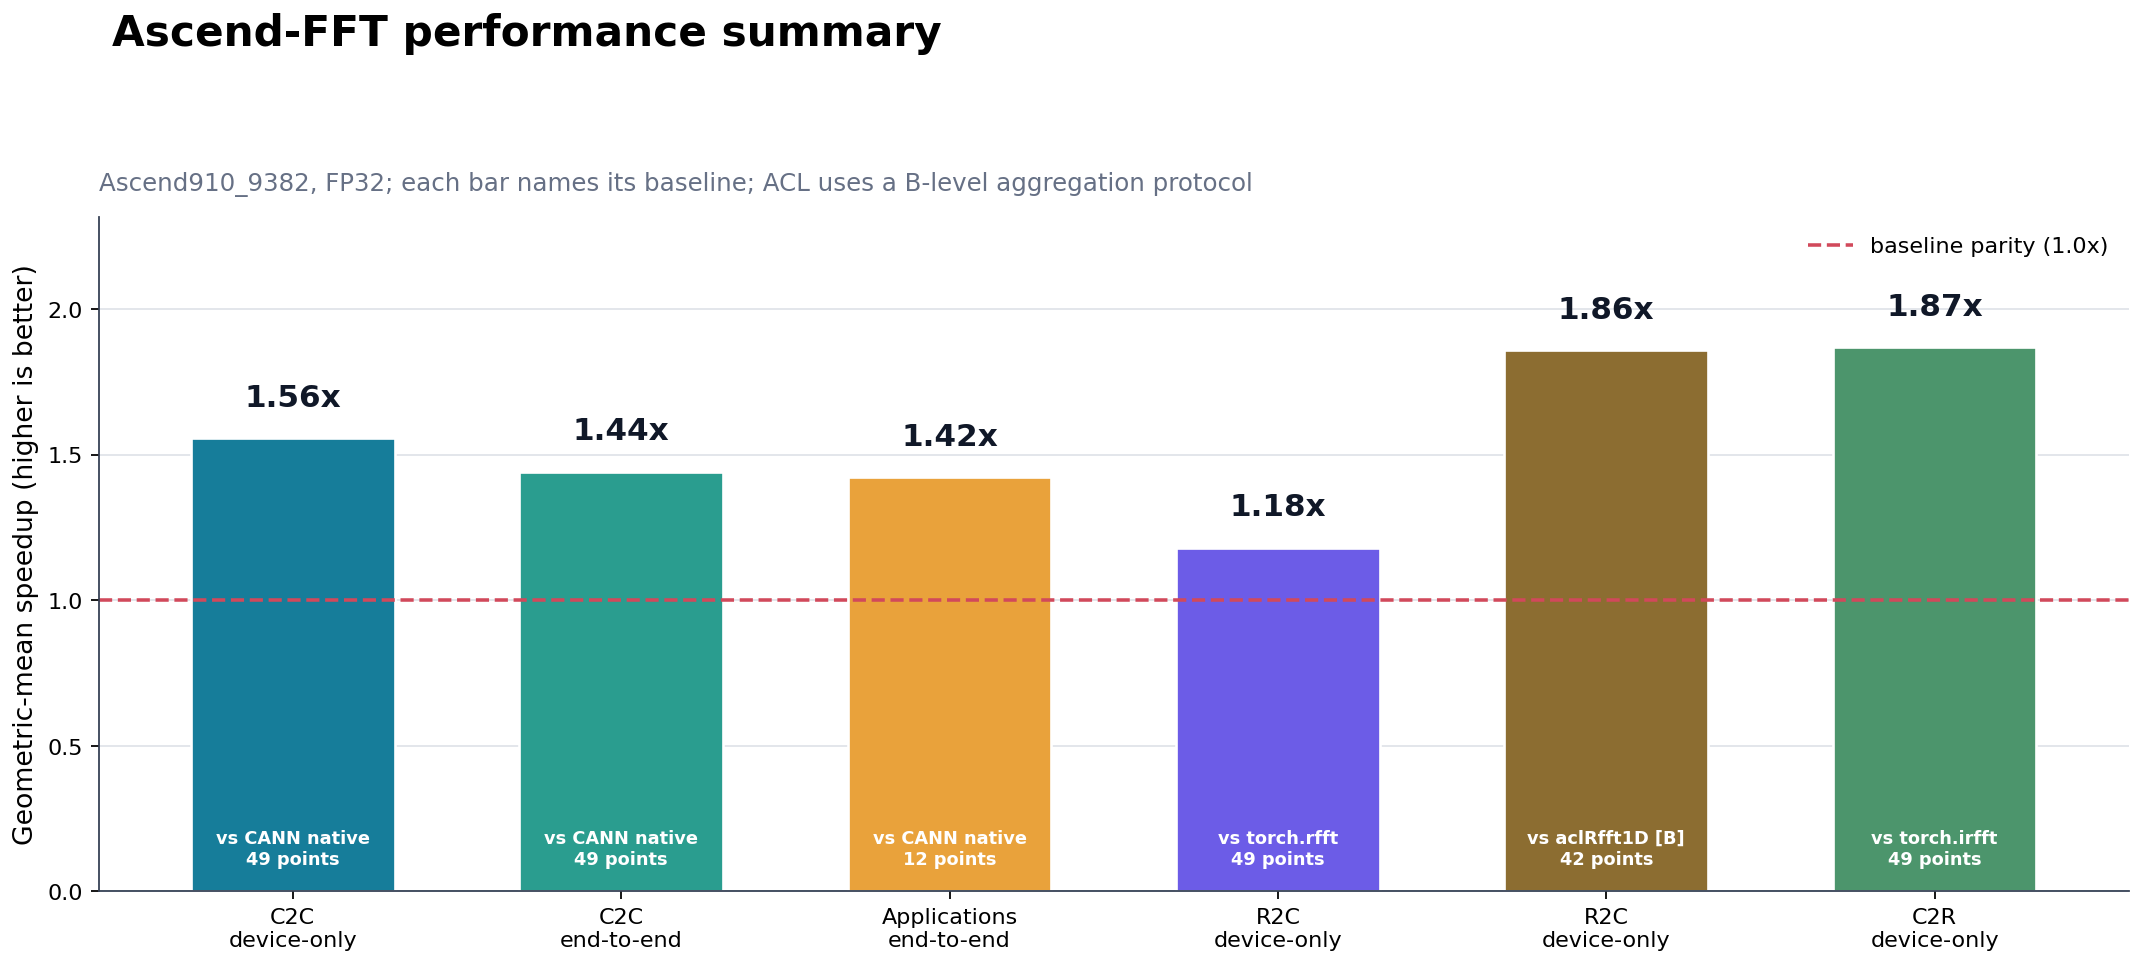
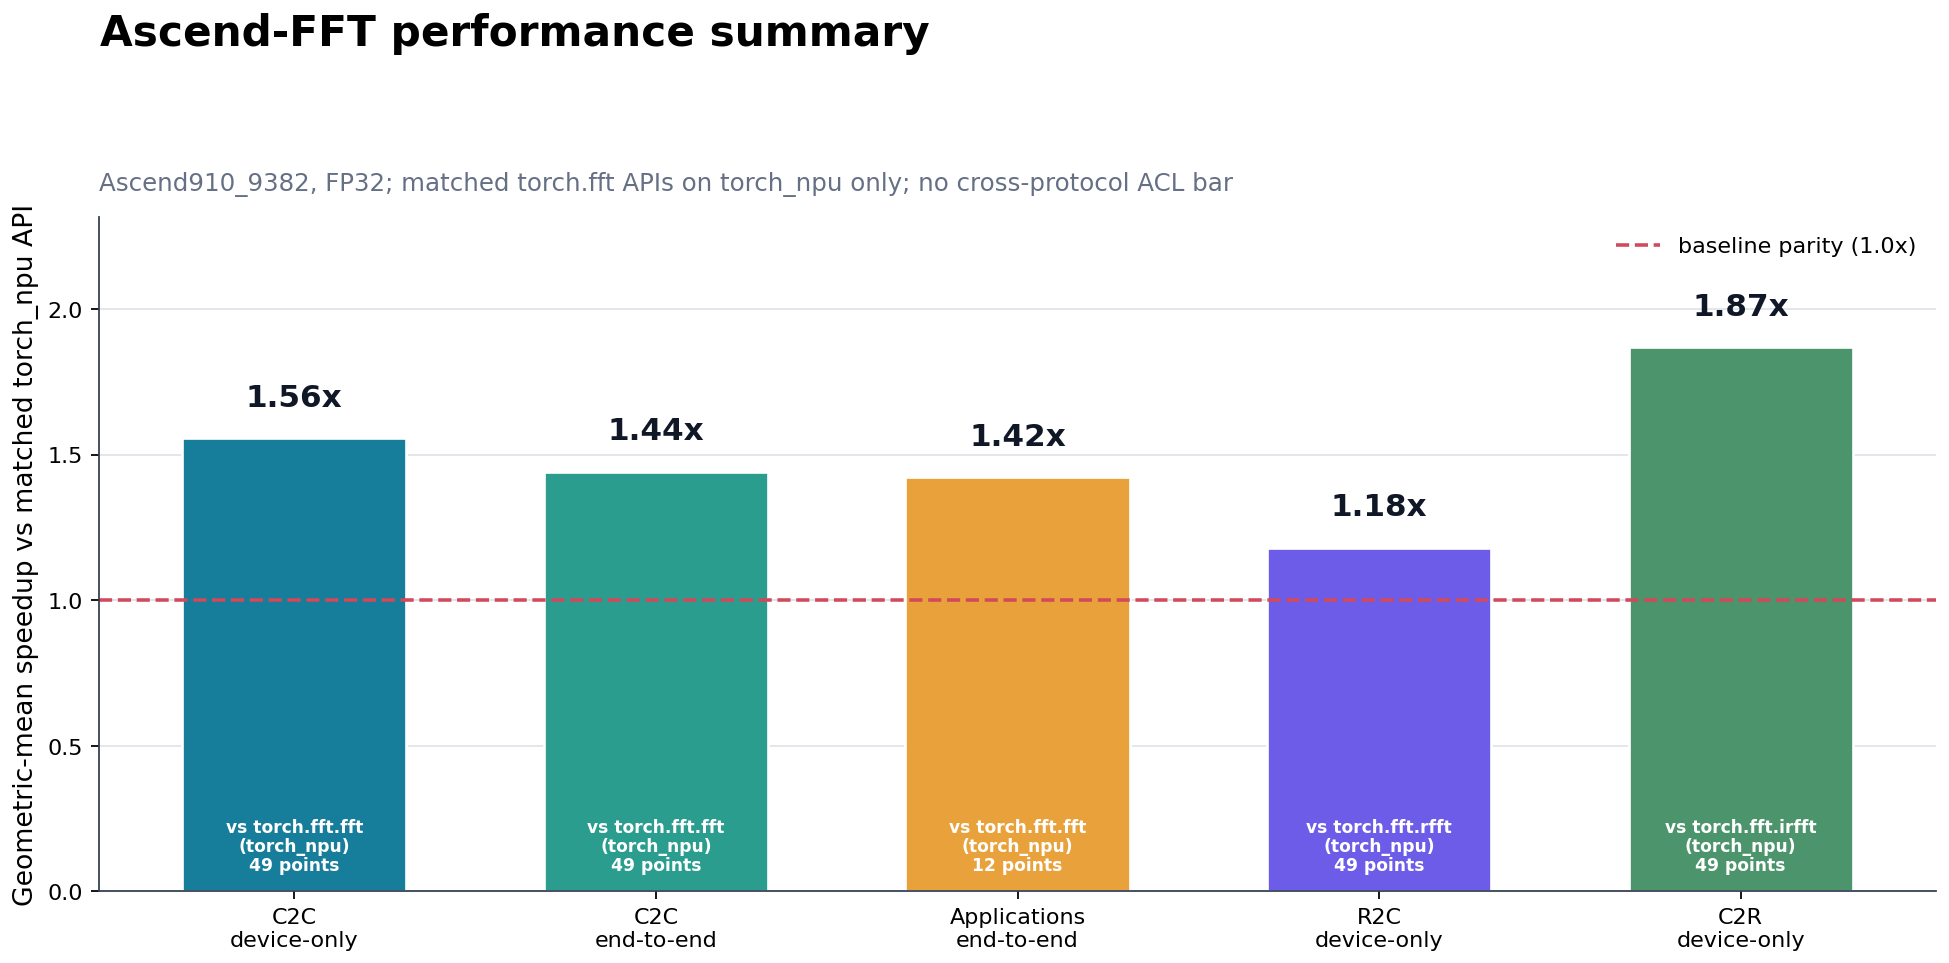
docs: unify headline FFT baseline labels

diff --git a/scripts/plot_results.py b/scripts/plot_results.py
@@ -129,25 +129,38 @@ def geo(values):
     return float(np.exp(np.mean(np.log(values)))) if values.size else float("nan")
 
 
-def fig_overview(rows, e2rows, approws, realrows, out):
-    """README headline: comparable groups, each with its baseline in the label."""
+def overview_groups(rows, e2rows, approws, realrows):
+    """Return headline groups with one explicit torch_npu baseline family.
+
+    The bare ACL R2C measurement intentionally stays out of this list: it was
+    collected with a different aggregation protocol and is reported as a
+    secondary comparison in the real-transform results page.
+    """
     r2c_torch = [r.get("r2c_vs_torch") for r in realrows]
-    r2c_acl = [r.get("r2c_vs_acl") for r in realrows]
     c2r_torch = [r.get("c2r_vs_torch") for r in realrows]
     groups = [
-        ("C2C\ndevice-only", geo([r["ratio"] for r in rows]), "CANN native", len(rows)),
-        ("C2C\nend-to-end", geo([r["e2e_ratio"] for r in e2rows]), "CANN native", len(e2rows)),
-        ("Applications\nend-to-end", geo([r["e2e_ratio"] for r in approws]), "CANN native", len(approws)),
-        ("R2C\ndevice-only", geo(r2c_torch), "torch.rfft", sum(v is not None for v in r2c_torch)),
-        ("R2C\ndevice-only", geo(r2c_acl), "aclRfft1D [B]", sum(v is not None for v in r2c_acl)),
-        ("C2R\ndevice-only", geo(c2r_torch), "torch.irfft", sum(v is not None for v in c2r_torch)),
+        ("C2C\ndevice-only", geo([r["ratio"] for r in rows]),
+         "torch.fft.fft\n(torch_npu)", len(rows)),
+        ("C2C\nend-to-end", geo([r["e2e_ratio"] for r in e2rows]),
+         "torch.fft.fft\n(torch_npu)", len(e2rows)),
+        ("Applications\nend-to-end", geo([r["e2e_ratio"] for r in approws]),
+         "torch.fft.fft\n(torch_npu)", len(approws)),
+        ("R2C\ndevice-only", geo(r2c_torch),
+         "torch.fft.rfft\n(torch_npu)", sum(v is not None for v in r2c_torch)),
+        ("C2R\ndevice-only", geo(c2r_torch),
+         "torch.fft.irfft\n(torch_npu)", sum(v is not None for v in c2r_torch)),
     ]
-    groups = [g for g in groups if g[1] == g[1]]
-    fig, ax = plt.subplots(figsize=(13.6, 6.2))
+    return [group for group in groups if group[1] == group[1]]
+
+
+def fig_overview(rows, e2rows, approws, realrows, out):
+    """README headline using only matched torch_npu FFT API baselines."""
+    groups = overview_groups(rows, e2rows, approws, realrows)
+    fig, ax = plt.subplots(figsize=(12.4, 6.2))
     x = np.arange(len(groups))
     values = [g[1] for g in groups]
     colors = [COLORS["ours"], COLORS["e2e"], COLORS["application"],
-              "#6C5CE7", "#8C6D31", "#4C956C"][:len(groups)]
+              "#6C5CE7", "#4C956C"][:len(groups)]
     bars = ax.bar(x, values, width=.62, color=colors, edgecolor="white", linewidth=1.2)
     ax.axhline(1.0, color=COLORS["native"], linestyle="--", linewidth=1.6,
                label="baseline parity (1.0x)")
@@ -155,16 +168,16 @@ def fig_overview(rows, e2rows, approws, realrows, out):
         ax.text(bar.get_x() + bar.get_width() / 2, value + .09,
                 f"{value:.2f}x", ha="center", va="bottom", fontsize=14,
                 fontweight="bold", color="#101828")
-        ax.text(bar.get_x() + bar.get_width() / 2, .08,
+        ax.text(bar.get_x() + bar.get_width() / 2, .06,
                 f"vs {baseline}\n{points} points", ha="center", va="bottom",
-                fontsize=8, color="white", fontweight="bold")
+                fontsize=7.7, color="white", fontweight="bold", linespacing=1.05)
     ax.set_xticks(x, [g[0] for g in groups])
-    ax.set_ylabel("Geometric-mean speedup (higher is better)")
+    ax.set_ylabel("Geometric-mean speedup vs matched torch_npu API")
     ax.set_ylim(0, max(values) * 1.24)
     fig.suptitle("Ascend-FFT performance summary", x=.06, y=.98, ha="left",
                  fontsize=19, fontweight="bold")
     ax.set_title(
-        "Ascend910_9382, FP32; each bar names its baseline; ACL uses a B-level aggregation protocol",
+        "Ascend910_9382, FP32; matched torch.fft APIs on torch_npu only; no cross-protocol ACL bar",
         loc="left", fontsize=11, color=COLORS["neutral"], pad=12)
     ax.grid(axis="y", color=COLORS["grid"], linewidth=.8, alpha=.65)
     ax.set_axisbelow(True)

diff --git a/tests/test_plot_results.py b/tests/test_plot_results.py
@@ -72,12 +72,19 @@ class PlotResultsTests(unittest.TestCase):
             self.assertTrue(image.is_file())
             self.assertGreater(image.stat().st_size, 10_000)
 
-    def test_overview_includes_real_transform_baselines(self):
+    def test_overview_uses_only_matched_torch_npu_baselines(self):
         rows = [{"ratio": 1.5}]
         e2e = [{"e2e_ratio": 1.4}]
         apps = [{"e2e_ratio": 1.3}]
         real = [{"r2c_vs_torch": 1.2, "r2c_vs_acl": 1.8,
                  "c2r_vs_torch": 1.9}]
+        groups = plots.overview_groups(rows, e2e, apps, real)
+        self.assertEqual(len(groups), 5)
+        baselines = [group[2] for group in groups]
+        self.assertEqual(baselines.count("torch.fft.fft\n(torch_npu)"), 3)
+        self.assertIn("torch.fft.rfft\n(torch_npu)", baselines)
+        self.assertIn("torch.fft.irfft\n(torch_npu)", baselines)
+        self.assertFalse(any("acl" in baseline.lower() for baseline in baselines))
         with tempfile.TemporaryDirectory() as temporary:
             plots.fig_overview(rows, e2e, apps, real, temporary)
             image = Path(temporary) / "overview_performance.png"

diff --git a/scripts/bench_native_npu.py b/scripts/bench_native_npu.py
@@ -1,11 +1,11 @@
 #!/usr/bin/env python3
-"""华为 NPU 原生复数 FFT 基准：torch.fft.fft（NPU 后端）。
+"""torch_npu 复数 FFT 基准：torch.fft.fft（NPU 后端）。
 
 实现归属：`_fft_c2c` 由 **torch_npu 自带的 op-plugin** 提供
 （`FFTc2cKernelNpuOpApi.cpp` / `FFTPlanNpuOpApi.cpp`），带 fft plan cache，
 **不是** CANN 算子库条目 —— CANN 9.0.0 的公开头文件里没有复数->复数 FFT 的 C API
-（只有 `aclRfft1D` 实->复、`aclSTFT`）。因此本文档/图里沿用的「CANN 原生」一词
-指「本卡原生复数 FFT 路径」；裸 CANN C API 一路见 `baseline_rfft --e2e`。
+（只有 `aclRfft1D` 实->复、`aclSTFT`）。历史数据字段中的 `native` 指这条本卡
+torch_npu 路径；裸 CANN C API 一路见 `baseline_rfft --e2e`。
 
   python3 scripts/bench_native_npu.py --ns 256,1024,4096 --bs 1,64,4096 --reps 20
   python3 scripts/bench_native_npu.py --input ofdm --ns 2048 --bs 14,140 --e2e

diff --git a/README.md b/README.md
@@ -70,25 +70,26 @@ cuButterfly/Ascend-FFT 的主要研究对象是计算流：我们不把某一个
 
 | 工作负载 | 比较基线 | 可比性 | 点数 | 几何均值 speedup |
 |---|---|---:|---:|---:|
-| C2C device-only | CANN 原生复数 FFT（torch_npu） | A | 49 | **1.56x** |
-| C2C end-to-end | 同上，pinned H2D + FFT + D2H | A* | 49 | **1.44x** |
-| 应用 shape end-to-end | 同上，OFDM / 雷达 / DL 频域层 | A* | 12 | **1.42x** |
+| C2C device-only | `torch.fft.fft`（torch_npu） | A | 49 | **1.56x** |
+| C2C end-to-end | `torch.fft.fft`（torch_npu），pinned H2D + FFT + D2H | A* | 49 | **1.44x** |
+| 应用 shape end-to-end | `torch.fft.fft`（torch_npu），OFDM / 雷达 / DL 频域层 | A* | 12 | **1.42x** |
 | R2C device-only | `torch.fft.rfft`（torch_npu，同卡同语义） | A | 49 | **1.18x** |
-| R2C device-only | `aclRfft1D`（同卡同语义、异统计协议） | B | 42 | **1.86x** |
 | C2R device-only | `torch.fft.irfft`（torch_npu，同卡同语义） | A | 49 | **1.87x** |
 
 <!-- END GENERATED: benchmark-summary -->
 
 数据来自 Ascend910_9382、CANN 9.0.0、fp32 发布快照
 [`ascend910_9382-migration-20261013`](results/published/ascend910_9382-migration-20261013/)。
-`A*` 表示语义和计时区间一致，但当前归档的两侧内层重复数不同；ACL 行是单独报告的 B 级
-次级对照，不与 A 级结果合并。当前快照包含 49 个 C2C 网格点，全部通过正确性门禁；device-only 有 47 个点严格领先、
+主图只汇总 `torch.fft.*` 经 torch_npu 执行的匹配基线；C2C 过去称作“CANN 原生”的路径实际也是
+`torch.fft.fft` 的 torch_npu op-plugin，并不是裸 CANN C API。裸 `aclRfft1D` 的 42 点 R2C
+B 级次级对照为 1.858x，由于统计协议不同，只在[实数变换实验](docs/benchmarks/real-transforms.md)中单列。
+`A*` 表示语义和计时区间一致，但当前归档的两侧内层重复数不同。当前快照包含 49 个 C2C 网格点，全部通过正确性门禁；device-only 有 47 个点严格领先、
 2 个点回退，最低点为 `N=1024,batch=4096`（0.942x）；按 ±5% 工程持平区间统计为 46/2/1。
 C2C E2E 为 1.442x，应用 shape 为 1.422x 且 12/12 点严格领先。R2C/C2R 使用 3-trial 对称计时协议；
 相对 torch_npu 的几何均值分别为 1.180x 和 1.868x，负点完整保留在热图和 raw 数据中。
 因此，本版本证明的是声明实验范围内的稳定总体收益，而不是每个点、每种变换或所有硬件上的
 全局最优。`N=8192..65536` 的规模切片目前只有正确性和延迟证据，不参与上述加速比汇总。
-每根柱子都标注自己的同语义基线，跨 GPU 数据不参与几何均值。查看[实验结果](docs/benchmarks/results.md)、
+每根柱子都标注对应的 torch_npu FFT API，跨 GPU 数据和异协议 ACL 数据不参与主图。查看[实验结果](docs/benchmarks/results.md)、
 [测量协议](docs/benchmarks/methodology.md)和[原始数据与复现](docs/benchmarks/reproducibility.md)。
 
 ## 为什么这样设计

diff --git a/docs/benchmarks/methodology.md b/docs/benchmarks/methodology.md
@@ -50,10 +50,11 @@
 分两套协议，逐点记录进各自 raw 行，不混算：
 
 - **C2C device-only 矩阵**：每个点先 warmup，再进行 3 轮、每轮 20 次；每轮取均值，最终采用
-  min-of-means。native/self runner 使用记录在 summary 中的固定 seed 逐轮随机交错，避免
+  min-of-means。历史 raw runner ID `native/self` 中，`native` 明确表示
+  `torch.fft.fft`/torch_npu 基线；二者使用记录在 summary 中的固定 seed 逐轮随机交错，避免
   始终先跑完某一实现造成单向温度、频率或负载漂移。
 - **端到端与应用 shape（`20261013` 快照）**：两侧同样按 3 轮 min-of-means 汇总，但内层重复数
-  不相同：native 为每轮 20 次，自研为每轮 10 次，网格实验中的裸 ACL 为每轮 10 次（应用 shape
+  不相同：torch_npu 基线为每轮 20 次，自研为每轮 10 次，网格实验中的裸 ACL 为每轮 10 次（应用 shape
   不运行 ACL）；执行顺序为先完成全部 native 轮次，再执行裸 ACL 和自研，未随机交错。该历史协议和执行顺序必须随结果披露，不能
   写成与 C2C matrix 完全相同；未来重采集应统一重复数并交错执行。
 

diff --git a/docs/index.md b/docs/index.md
@@ -24,12 +24,13 @@ Ascend-FFT 是 [cuButterfly](https://github.com/TruNcat3/cuButterfly) 在 Ascend
 <figure class="doc-diagram doc-diagram--compact">
   <a href="figures/overview_performance.png">
     <img src="figures/overview_performance.png" loading="lazy"
-         alt="Ascend-FFT 在 Ascend910_9382 上的 C2C、应用 shape、R2C 和 C2R 几何均值 speedup；每根柱子标注各自的同卡同语义基线">
+         alt="Ascend-FFT 在 Ascend910_9382 上相对匹配 torch_npu FFT API 的 C2C、应用 shape、R2C 和 C2R 几何均值 speedup">
   </a>
   <figcaption>
     当前加固发布快照的性能摘要；完整点数、协议、胜平负和限制见
-    <a href="benchmarks/results/">实验结果</a>。每根柱子使用各自标注的对照；其中 ACL 是异统计
-    协议的 B 级次级对照。这张图不代表跨硬件或未验证长度的保证。
+    <a href="benchmarks/results/">实验结果</a>。五根柱子分别使用匹配的
+    <code>torch.fft.fft/rfft/irfft</code>（torch_npu）对照；异统计协议的裸 ACL 数据不进入
+    主图。这张图不代表跨硬件或未验证长度的保证。
   </figcaption>
 </figure>
 

diff --git a/docs/reference/glossary.md b/docs/reference/glossary.md
@@ -17,7 +17,7 @@
 | Candidate / Plan | 配置描述 / 装载可执行资源的计划 |
 | Infeasible | 已检查约束失败，保留原因 |
 | Unverified / Feasible / Measured | 未验证 / 满足相应验证 / 已回填实测 |
-| 原生C2C | torch.fft.fft经torch_npu执行，不是公开CANN C2C C API |
+| 历史字段 `native` | `torch.fft.fft` 经 torch_npu 执行，不是公开 CANN C2C C API；现行图表直接写具体 API，避免称谓混淆 |
 | aclRfft1D | CANN实数到复数接口，不能无条件当作C2C基线 |
 | v1 | 本仓标量旋转因子历史kernel，不是外部库 |
 | device-only | 准备后的稳态变换/API 调用到同步，不含显式 H2D/D2H；可能含 dispatch 或必要 executor 构造，须查看具体协议 |

diff --git a/docs/benchmarks/c2c.md b/docs/benchmarks/c2c.md
@@ -13,7 +13,7 @@
 | 语义 | fp32，前向 1D C2C，稠密交错输入，自然序输出 |
 | 长度 N | 64、128、256、512、1024、2048、4096 |
 | Batch | 1、4、16、64、256、1024、4096 |
-| 严格基线 | 同卡 `torch.fft.fft` 的 torch_npu / CANN 原生复数 FFT 路径 |
+| 严格基线 | 同卡 `torch.fft.fft` 的 torch_npu op-plugin 路径；不是裸 CANN C API |
 | 计时 | Device-only 同步执行；不含 Plan 构造、输入生成和 H2D/D2H |
 | 重复与汇总 | 每点双方各 3 轮，每轮 20 次；取每轮均值的最小值 |
 | 正确性 | 自研与原生分别对 CPU 双精度参考，所有轮次 PASS 且 `maxRel <= 1e-4` |
